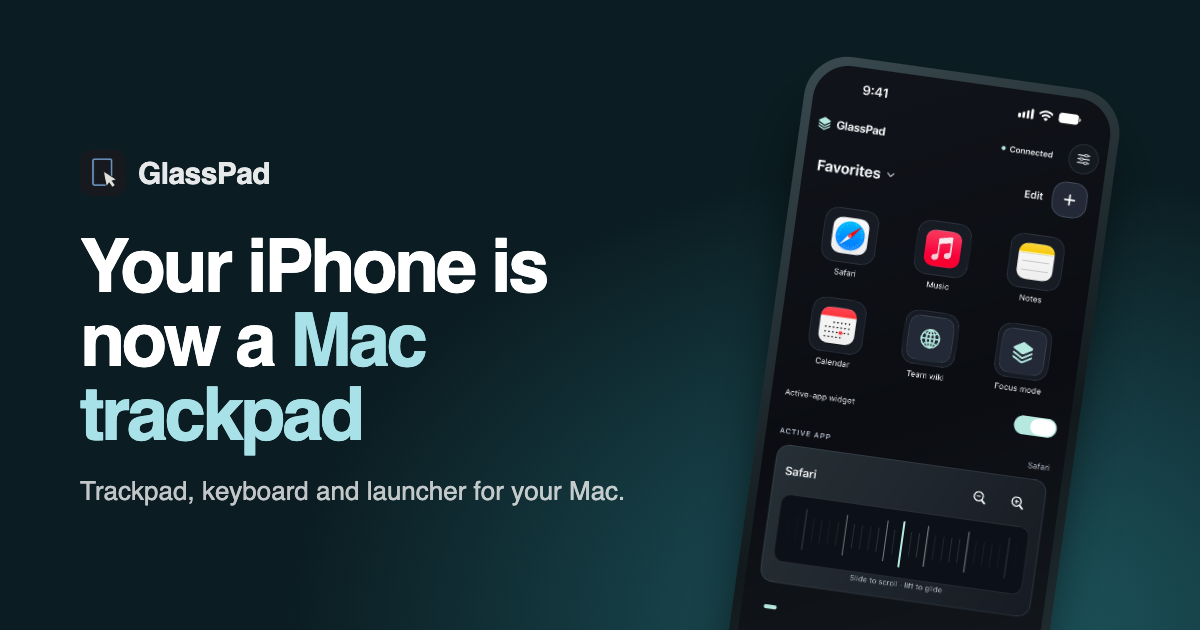
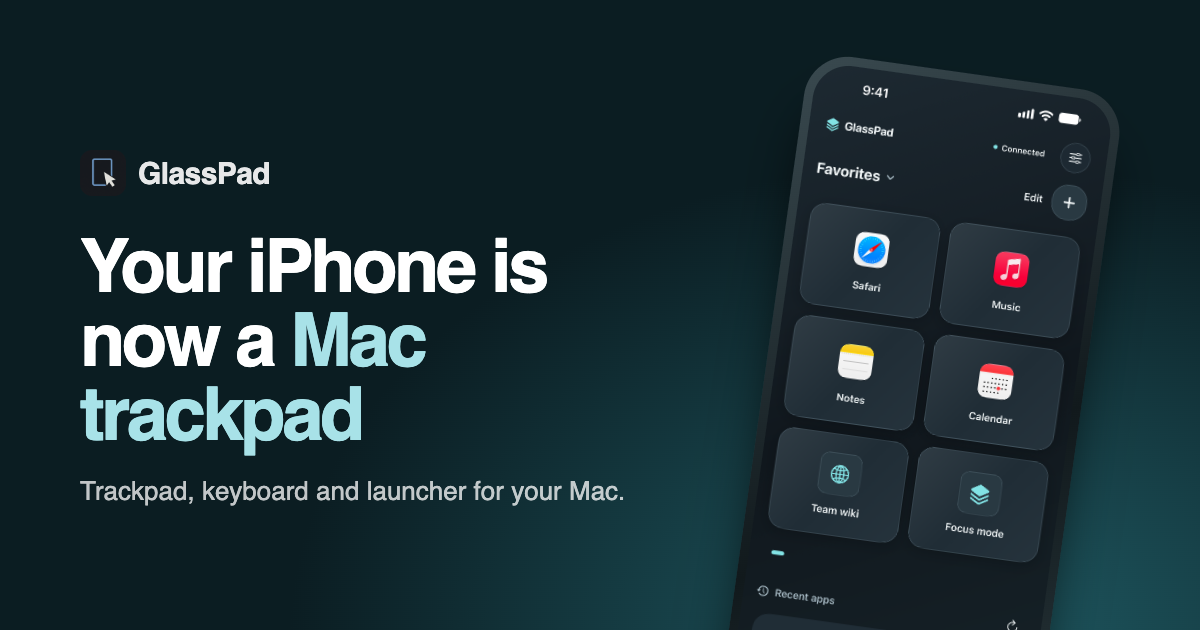
Remove the unreleased active-app scroll widget from the site
The scroll/zoom widget is not being released yet. Remove it from the
interactive preview, the iPad copy, and every image that showed it: hero
and iPad images now use the Modern launcher captures, and the share image
is re-rendered.

diff --git a/index.html b/index.html
@@ -9,7 +9,7 @@
   <link rel="canonical" href="https://ashutoshwahane.dev/glasspad-site/">
   <link rel="icon" href="assets/brand.png">
   <link rel="stylesheet" href="style.css">
-  <link rel="preload" href="assets/launcher-midnight.jpg" as="image">
+  <link rel="preload" href="assets/launcher-hero.jpg" as="image">
   <meta name="apple-itunes-app" content="app-id=6826582384">
   <meta property="og:type" content="website">
   <meta property="og:title" content="GlassPad: your iPhone or iPad as a Mac trackpad">
@@ -41,7 +41,7 @@
       </div>
       <div class="hero-art" aria-label="GlassPad launcher on iPhone">
         <div class="glass-orbit orbit-back" aria-hidden="true"></div>
-        <div class="phone hero-phone"><img src="assets/launcher-midnight.jpg" alt="GlassPad on iPhone in Midnight Glass, with Safari, Music, Notes, Calendar, a website and a Shortcut ready to launch, above a live Safari widget." width="786" height="1704" fetchpriority="high"><span class="phone-speaker" aria-hidden="true"></span></div>
+        <div class="phone hero-phone"><img src="assets/launcher-hero.jpg" alt="GlassPad on iPhone with Safari, Music, Notes, Calendar, a website and a Shortcut ready to launch." width="786" height="1704" fetchpriority="high"><span class="phone-speaker" aria-hidden="true"></span></div>
         <div class="glass-orbit orbit-front" aria-hidden="true"></div>
         <div class="floating-key key-command" aria-hidden="true">⌘</div>
         <div class="floating-key key-pointer" aria-hidden="true"><svg viewBox="0 0 64 64"><path d="M15 9 52 34 34 38 26 55Z"/></svg></div>
@@ -83,7 +83,6 @@
           <div class="play-pane" id="play-p-launcher" role="tabpanel" aria-label="Launcher">
             <p class="play-title">Favorites</p>
             <div class="play-grid" id="play-tiles"></div>
-            <div class="play-widget"><div class="play-wrow"><b>Active app</b><span id="play-wapp">Finder</span></div><label for="play-wscroll">Slide to scroll</label><input id="play-wscroll" type="range" min="0" max="100" value="0"></div>
           </div>
           <div class="play-pane" id="play-p-keyboard" role="tabpanel" aria-label="Keyboard" hidden>
             <p class="play-title">Type, then send</p>
@@ -127,8 +126,8 @@
   </section>
 
   <section class="ipad-section section" aria-labelledby="ipad-title"><div class="wrap ipad-layout">
-    <div class="ipad-copy"><p class="eyebrow">At home on iPad, too</p><h2 id="ipad-title">More space.<br> Same flow.</h2><p>Put a bigger launch pad beside your Mac. Apps, the active-app widget, recent favorites, emojis, and window controls have room to breathe.</p><p class="small-note">One Mac, one connected device at a time.</p></div>
-    <div class="tablet"><img src="assets/ipad-launcher-midnight.jpg" alt="GlassPad on iPad in Midnight Glass, showing favorite apps, the active-app widget, recent apps, emoji favorites and window controls." width="1032" height="1376" loading="lazy"></div>
+    <div class="ipad-copy"><p class="eyebrow">At home on iPad, too</p><h2 id="ipad-title">More space.<br> Same flow.</h2><p>Put a bigger launch pad beside your Mac. Apps, recent favorites, emojis, and window controls have room to breathe.</p><p class="small-note">One Mac, one connected device at a time.</p></div>
+    <div class="tablet"><img src="assets/ipad-launcher-modern.jpg" alt="GlassPad on iPad showing favorite apps, recent apps, emoji favorites and window controls." width="1032" height="1376" loading="lazy"></div>
   </div></section>
 
   <section class="setup section wrap" id="setup" aria-labelledby="setup-title">

diff --git a/app.js b/app.js
@@ -6,7 +6,6 @@
     const cursor = document.getElementById('play-cursor');
     const toastEl = document.getElementById('play-toast');
     const menuApp = document.getElementById('play-mbapp');
-    const widgetApp = document.getElementById('play-wapp');
     const themeButtons = [...document.querySelectorAll('.play-themes button')];
     const tabs = [...document.querySelectorAll('.play-tabs [role="tab"]')];
     let toastTimer;
@@ -69,8 +68,6 @@
       win.style.zIndex = ++z;
       front = win;
       menuApp.textContent = win.dataset.app;
-      widgetApp.textContent = win.dataset.app;
-      document.getElementById('play-wscroll').value = (parseFloat(win.querySelector('.play-scroller').dataset.y) || 0) / 1.6;
     };
     const openApp = name => {
       let win = windows[name];
@@ -113,7 +110,6 @@
       scroller.dataset.y = y;
       scroller.style.transform = `translateY(${-y}px)`;
     };
-    document.getElementById('play-wscroll').addEventListener('input', event => scrollTo(event.target.value * 1.6));
 
     const click = kind => {
       ripple();
